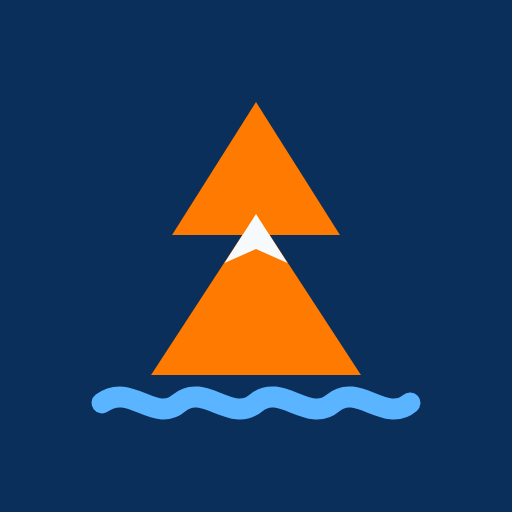
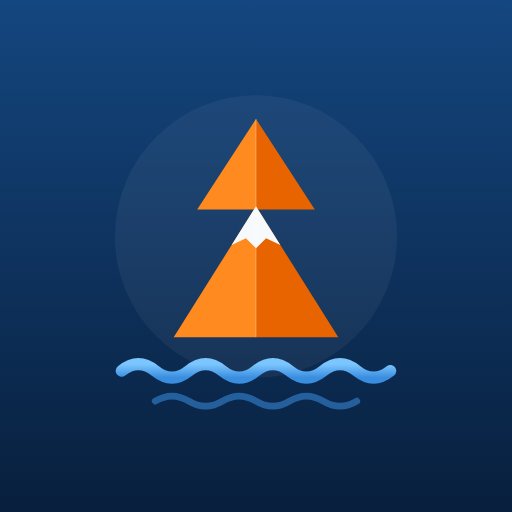
Icône Balise affinée ; contrôle du calage (photo superposée) et alerte de zoom au-delà de l'échelle ; bouton Marée retiré en Rando
Claude-Session: https://claude.ai/code/session_01DaBY63K7nZn7A1AZsbcE9R

diff --git a/index.html b/index.html
@@ -49,6 +49,8 @@ body.night{--white:#2a1210;--ink:#ff8a7a;--blue:#ff6a55;--line:#4a2420;--soft:#3
 #colTR{top:calc(var(--st) + 12px);right:calc(var(--sr) + 12px);gap:10px;align-items:center}
 #colBL{left:calc(var(--sl) + 12px);bottom:calc(var(--sb) + 86px + var(--tl))}
 #colBR{right:calc(var(--sr) + 12px);bottom:calc(var(--sb) + 86px + var(--tl))}
+#scale.warn{background:#FF7A00;color:#fff;cursor:pointer}
+#scale.warn::after{content:" ⚠"}
 #scale{font:600 11px var(--mono);background:var(--white);color:var(--ink);border-radius:8px;padding:3px 6px;box-shadow:0 1px 4px rgba(0,0,0,.25)}
 
 /* Instruments */
@@ -80,7 +82,7 @@ body.rando .bar button.go{background:var(--sapin)}
 .info{background:var(--soft);border-radius:12px;padding:10px 12px;display:grid;gap:8px}
 .info b{display:block;font:600 12px var(--sans);color:var(--muted)}
 .info span{font:600 16px var(--mono);font-variant-numeric:tabular-nums}
-.acts{display:grid;grid-template-columns:repeat(4,1fr);gap:8px;margin-top:14px}
+.acts{display:grid;grid-auto-flow:column;grid-auto-columns:1fr;gap:8px;margin-top:14px}
 .act{border:0;background:none;display:flex;flex-direction:column;align-items:center;gap:6px;color:var(--blue);font:600 12px var(--sans);cursor:pointer}
 .act span{width:46px;height:46px;border-radius:50%;background:var(--navy);color:#fff;display:grid;place-items:center}
 .act svg{width:22px;height:22px}
@@ -287,7 +289,7 @@ body.rando #tChips button[data-t="cur"], body.rando #tChips button[data-t="wave"
 <body>
 <div id="splash" role="dialog" aria-label="Démarrage">
   <div class="sp-in">
-    <svg class="sp-logo" viewBox="0 0 120 120" aria-hidden="true"><rect width="120" height="120" rx="27" fill="#0B2F5B"/><path d="M60 14 84 52H36z" fill="#FF7A00"/><path d="M60 46 90 92H30z" fill="#FF7A00"/><path d="M60 46 69 60 60 56 51 60z" fill="#F7FAFC"/><path d="M16 100c8-6 15 6 22 0s15 6 22 0 15 6 22 0 15 6 22 0" stroke="#5AB4FF" stroke-width="6" fill="none" stroke-linecap="round"/></svg>
+    <img class="sp-logo" src="icon.svg" alt="">
     <h1 class="sp-name" id="spName">Bal<span style="color:#FF7A00">i</span>se</h1>
     <p class="sp-tag">De la mer aux sommets</p>
     <p class="sp-author">par <b>Capitaine BoBo</b></p>
@@ -370,7 +372,7 @@ body.rando #tChips button[data-t="cur"], body.rando #tChips button[data-t="wave"
   </div>
   <div class="acts">
     <button class="act" id="aRoute"><span><svg viewBox="0 0 24 24" fill="currentColor"><path d="M21 3 3 10.5l7.5 2.9L13.4 21z"/></svg></span>Aller ici</button>
-    <button class="act" id="aCurve"><span><svg viewBox="0 0 24 24" fill="none" stroke="currentColor" stroke-width="2.2" stroke-linecap="round"><path d="M2 12c2.5-6 5-6 7.5 0s5 6 7.5 0 3-4 5-2"/></svg></span>Marée</button>
+    <button class="act mer-only" id="aCurve"><span><svg viewBox="0 0 24 24" fill="none" stroke="currentColor" stroke-width="2.2" stroke-linecap="round"><path d="M2 12c2.5-6 5-6 7.5 0s5 6 7.5 0 3-4 5-2"/></svg></span>Marée</button>
     <button class="act" id="aMeteo"><span><svg viewBox="0 0 24 24" fill="currentColor"><path d="M7 18a4.5 4.5 0 0 1-.6-9 6 6 0 0 1 11.4 1.6A3.8 3.8 0 0 1 17.5 18z"/></svg></span>Météo ici</button>
     <button class="act" id="aMeasure"><span><svg viewBox="0 0 24 24" fill="none" stroke="currentColor" stroke-width="2.2"><path d="M3 17 17 3l4 4L7 21zM7 13l2 2M10 10l2 2M13 7l2 2"/></svg></span>Mesurer</button>
   </div>
@@ -468,6 +470,8 @@ body.rando #tChips button[data-t="cur"], body.rando #tChips button[data-t="wave"
     <label class="mapc mer-only"><input type="radio" name="base" value="shom"><img alt="" loading="lazy"><span>Cartes SHOM<small>Avec votre clé SHOM</small></span></label>
   </div>
   <h3>Surimpression</h3>
+  <label class="opt"><input type="checkbox" id="calChk"><div>Contrôler le calage<small>Superpose la photo aérienne : la côte, les quais et les rochers doivent coïncider</small></div></label>
+  <div class="opt" id="calRow" hidden style="border:0;padding-top:0"><input type="range" id="calOp" min="0" max="100" value="50" style="width:100%;accent-color:#FF7A00" aria-label="Transparence de la photo"></div>
   <label class="opt mer-only"><input type="checkbox" id="seamarks"><div>Balisage OpenSeaMap<small>Bouées, feux, amers : utile sur Profondeurs ou Satellite</small></div></label>
   <div class="rando-only">
     <label class="opt"><input type="checkbox" id="slopeChk"><div>Pentes de plus de 30° (IGN)<small>Ski de rando : relief IGN au pas de 5 m</small></div></label>
@@ -1826,6 +1830,14 @@ function openMaps(){
 }
 $("bLayers").onclick = openMaps;
 document.querySelectorAll("input[name=base]").forEach(r=>r.addEventListener("change", markSelMaps));
+/* ---- Calage : photo superposée + alerte de zoom au-delà de l'échelle de la carte ---- */
+const calLayer = L.tileLayer(geopf("ORTHOIMAGERY.ORTHOPHOTOS","image/jpeg"), {maxZoom:19, bounds:FRANCE, opacity:.5, zIndex:5, attribution:"© IGN"});
+$("calChk").onchange=e=>{ $("calRow").hidden=!e.target.checked; if(e.target.checked){ calLayer.setOpacity($("calOp").value/100); calLayer.addTo(map); } else map.removeLayer(calLayer); };
+$("calOp").oninput=e=>calLayer.setOpacity(e.target.value/100);
+function scaleWarn(){ const ly=bases[curBase], nz=ly&&ly.options.maxNativeZoom, over = nz && map.getZoom()>nz;
+  $("scale").classList.toggle("warn", !!over); $("scale").title = over ? "Zoom au-delà de l'échelle de la carte : détails agrandis, précision non améliorée" : ""; }
+map.on("zoomend", scaleWarn); document.querySelectorAll("input[name=base]").forEach(r=>r.addEventListener("change", scaleWarn)); scaleWarn();
+$("scale").onclick=()=>{ if($("scale").classList.contains("warn")) toast("Carte agrandie au-delà de son échelle d'origine : les détails grossissent, la précision ne s'améliore pas. Gardez une marge de sécurité.", 6000); };
 /* ---- Test des fonds de carte depuis le téléphone ---- */
 function tileXY(lat,lng,z){ const n=2**z, r=lat*Math.PI/180; return {x:Math.floor((lng+180)/360*n), y:Math.floor((1-Math.log(Math.tan(r)+1/Math.cos(r))/Math.PI)/2*n), z}; }
 const SRC_TEST = [
@@ -1875,7 +1887,7 @@ $("bCache").onclick = async () => {
   info.textContent="Zone enregistrée : "+done+" tuiles hors ligne"+(fail?" ("+fail+" échecs)":"")+"."; btn.disabled=false;
 };
 const APP_NAME="Balise", APP_AUTHOR="Capitaine BoBo";
-const APP_VERSION="2026.11.14"; $("spVer").textContent="Version "+APP_VERSION;
+const APP_VERSION="2026.11.14-b"; $("spVer").textContent="Version "+APP_VERSION;
 (function(){ const sp=$("splash"), hide=()=>{ sp.classList.add("out"); setTimeout(()=>sp.hidden=true,600); }; sp.onclick=hide; setTimeout(hide, 1900); })();
 $("appver").textContent=APP_NAME+" · par "+APP_AUTHOR+" · version "+APP_VERSION+(location.hostname.endsWith("github.io")?" · mise à jour automatique":"");
 if("serviceWorker" in navigator && location.protocol.startsWith("http")) navigator.serviceWorker.register("sw.js").catch(()=>{});

diff --git a/sw.js b/sw.js
@@ -1,5 +1,5 @@
 // Balise - cache de l'app et des tuiles pour usage hors ligne
-const APP = "navshom-app-v21", TILES = "navshom-tiles";
+const APP = "navshom-app-v22", TILES = "navshom-tiles";
 const SHELL = ["./", "index.html", "lib/leaflet.js", "lib/leaflet.css", "lib/landmask.png", "lib/fonts/inter-latin-400-normal.woff2", "lib/fonts/inter-latin-500-normal.woff2", "lib/fonts/inter-latin-600-normal.woff2", "lib/fonts/inter-latin-700-normal.woff2", "manifest.webmanifest", "icon.svg", "icon-192.png", "icon-512.png"];
 self.addEventListener("install", e => { e.waitUntil(caches.open(APP).then(c => c.addAll(SHELL))); self.skipWaiting(); });
 self.addEventListener("activate", e => { e.waitUntil(caches.keys().then(ks => Promise.all(ks.filter(k => k.startsWith("navshom-app-") && k !== APP).map(k => caches.delete(k))))); self.clients.claim(); });
